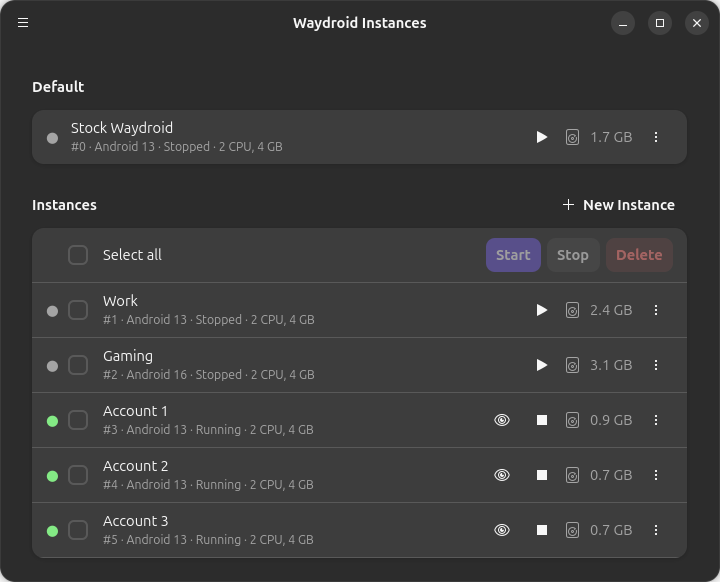
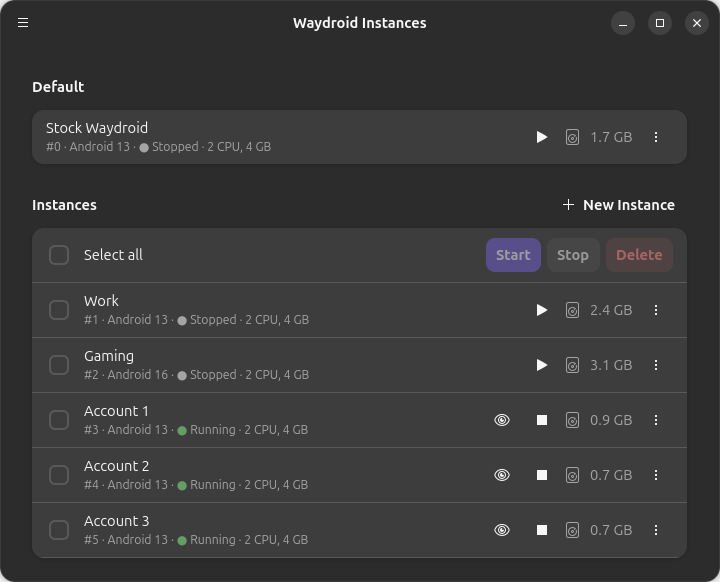
Manager: the state dot before the state text
The dot was a prefix before each row's checkbox, so the header row needed an invisible dot to
line its Select all checkbox up, which left a gap. It is now part of the subtitle, "#1 · Android
13 · ● Running · 2 CPU, 4 GB", and the header row starts with its checkbox like the rows.

The subtitle is markup, which takes colours rather than style classes: they are read from hidden
labels with the success, warning and accent classes, so they follow the theme. Clamped to sRGB:
libadwaita 1.9's light success colour has a negative red, which Pango rejects as "#-347b02".
README's manager screenshot shows the new layout.

diff --git a/waydroid_manager/gui/window.py b/waydroid_manager/gui/window.py
@@ -16,7 +16,8 @@ from .pickapk import apk_dialog  # noqa: E402
 
 ACTIVE = ("RUNNING", "FROZEN")
 BUSY = ("STARTING", "STOPPING", "CLONING", "DELETING")
-STATE_STYLE = {"RUNNING": "success", "FROZEN": "warning", "STOPPED": "dim-label"}
+# The state dot's colour, as a style class (other states: accent; None: the text's own colour)
+STATE_STYLE = {"RUNNING": "success", "FROZEN": "warning", "STOPPED": None}
 STATE_LABEL = {"RUNNING": "Running", "FROZEN": "Paused", "STOPPED": "Stopped", "STARTING": "Starting…",
                "STOPPING": "Stopping…", "CLONING": "Cloning…", "DELETING": "Deleting…"}
 # install.sh puts the uninstaller next to the package (PREFIX/lib/waydroid-manager/)
@@ -32,20 +33,22 @@ def gigabytes(n):
         return ""
 
 
-def describe(info):
+def describe(info, dot="●"):
+    """A row's subtitle as markup, "#1 · Android 13 · ● Running · 2 CPU, 4 GB"; dot: the dot's markup."""
+    esc = GLib.markup_escape_text
     parts = []
     if info.get("index"):
-        parts.append("#" + info["index"])
+        parts.append(esc("#" + info["index"]))
     if info.get("android"):
-        parts.append("Android " + info["android"])
-    parts.append(STATE_LABEL.get(info["state"], info["state"].title()))
+        parts.append(esc("Android " + info["android"]))
+    parts.append(dot + " " + esc(STATE_LABEL.get(info["state"], info["state"].title())))
     lim = []
     if info.get("cpus"):
         lim.append("{} CPU".format(info["cpus"]))
     if info.get("memory"):
         lim.append(info["memory"].replace("G", " GB"))
     if lim:
-        parts.append(", ".join(lim))
+        parts.append(esc(", ".join(lim)))
     return " · ".join(parts)
 
 
@@ -57,7 +60,7 @@ def _flat_button(icon, tooltip, cb):
 
 
 class BaseRow(Adw.ActionRow):
-    """Status dot, spinner, start/show and stop buttons, and a ⋮ menu built on demand."""
+    """Spinner, start/show and stop buttons, and a ⋮ menu built on demand; the state dot is in the subtitle."""
 
     def __init__(self, win, info, check=False):
         super().__init__()
@@ -69,8 +72,6 @@ class BaseRow(Adw.ActionRow):
             self.check.connect("toggled", lambda *_: win.selection_changed())
             self.add_prefix(self.check)
             self.set_activatable_widget(self.check)
-        self.dot = Gtk.Label(label="●", valign=Gtk.Align.CENTER)
-        self.add_prefix(self.dot)
         # Adw.Spinner needs libadwaita 1.6; Ubuntu 24.04 has 1.5
         self.spinner = Adw.Spinner() if hasattr(Adw, "Spinner") else Gtk.Spinner(spinning=True)
         self.spinner.set_valign(Gtk.Align.CENTER)
@@ -106,10 +107,7 @@ class BaseRow(Adw.ActionRow):
     def update(self, info):
         self.info = info
         st = info["state"]
-        self.set_subtitle(GLib.markup_escape_text(self.subtitle()))
-        for c in ("success", "warning", "dim-label", "accent"):
-            self.dot.remove_css_class(c)
-        self.dot.add_css_class(STATE_STYLE.get(st, "accent"))
+        self.set_subtitle(self.subtitle())
         self.disk_label.set_label(gigabytes(info.get("disk_used")))
         self.disk.set_visible(bool(self.disk_label.get_label()))
         busy = st in BUSY or info["id"] in self.win.busy
@@ -124,7 +122,7 @@ class BaseRow(Adw.ActionRow):
             self.play.set_tooltip_text("Start")
 
     def subtitle(self):
-        return describe(self.info)
+        return describe(self.info, self.win.dot(self.info["state"]))
 
 
 class InstanceRow(BaseRow):
@@ -197,13 +195,11 @@ class MainWindow(Adw.ApplicationWindow):
         new_btn.connect("clicked", lambda *_: self.new_instance())
         self.group.set_header_suffix(new_btn)
         page.append(self.group)
-        # Batch actions on the checked instances: the list's header row, its checkbox in line with
-        # the rows' (an invisible dot stands in for the status dot)
+        # Batch actions on the checked instances: the list's header row, its checkbox in line with the rows'
         self.batch_row = Adw.ActionRow(title="Select all")
         self.select_all = Gtk.CheckButton(valign=Gtk.Align.CENTER)
         self.select_all.connect("toggled", self._toggle_all)
         self.batch_row.add_prefix(self.select_all)
-        self.batch_row.add_prefix(Gtk.Label(label="●", valign=Gtk.Align.CENTER, opacity=0))
         self.batch_row.set_activatable_widget(self.select_all)
         for attr, label, style, cb in (("batch_start", "Start", "suggested-action", self.start_selected),
                                        ("batch_stop", "Stop", None, self.stop_selected),
@@ -233,6 +229,11 @@ class MainWindow(Adw.ApplicationWindow):
                                         vexpand=True, child=self.list))
         self.group.add(table)
         self.stack.add_named(Adw.Clamp(maximum_size=1200, child=page), "list")
+        # The state dots are text in the rows' subtitles, so markup needs their colours: read from hidden
+        # labels with the style classes, which follow the theme
+        self.dot_colors = {c: Gtk.Label(css_classes=[c], visible=False) for c in ("success", "warning", "accent")}
+        for probe in self.dot_colors.values():
+            page.append(probe)
 
         self.error_page = Adw.StatusPage(icon_name="dialog-error-symbolic", title="Daemon not available",
                                          description="Start it with: sudo systemctl start waydroid-manager")
@@ -288,6 +289,16 @@ class MainWindow(Adw.ApplicationWindow):
             width = self.get_width() or 720
             height = self.get_content().measure(Gtk.Orientation.VERTICAL, width)[1]
             self.set_default_size(width, min(height, 800))
+
+    def dot(self, state):
+        """The state dot's markup."""
+        cls = STATE_STYLE.get(state, "accent")
+        if not cls:
+            return "●"
+        c = self.dot_colors[cls].get_color()
+        # libadwaita's colours can fall outside sRGB (light theme's success has red < 0): clamp them
+        rgb = (min(255, max(0, round(v * 255))) for v in (c.red, c.green, c.blue))
+        return '<span foreground="#{:02x}{:02x}{:02x}">●</span>'.format(*rgb)
 
     def toast(self, msg, timeout=4):
         t = Adw.Toast(title=GLib.markup_escape_text(msg))

diff --git a/CHANGELOG.md b/CHANGELOG.md
@@ -45,6 +45,8 @@ follows [Keep a Changelog](https://keepachangelog.com/en/1.1.0/), and versions f
   Properties), each on its own short page, instead of one long page to scroll.
 - In the manager, the instance list scrolls under its header row (Select all, Start, Stop,
   Delete), which stays in view.
+- The manager's state dot sits before the state in each row ("● Running"), so the rows' checkboxes
+  line up with Select all at the left edge.
 - **waydroid-multi is now Waydroid Manager.** The command is `waydroid-manager`, the package
   `waydroid-manager`, the app "Waydroid Manager", and the bridge `wdm0`. Installing it over
   waydroid-multi 0.5 stops the running instances once and moves them, with their images and network
